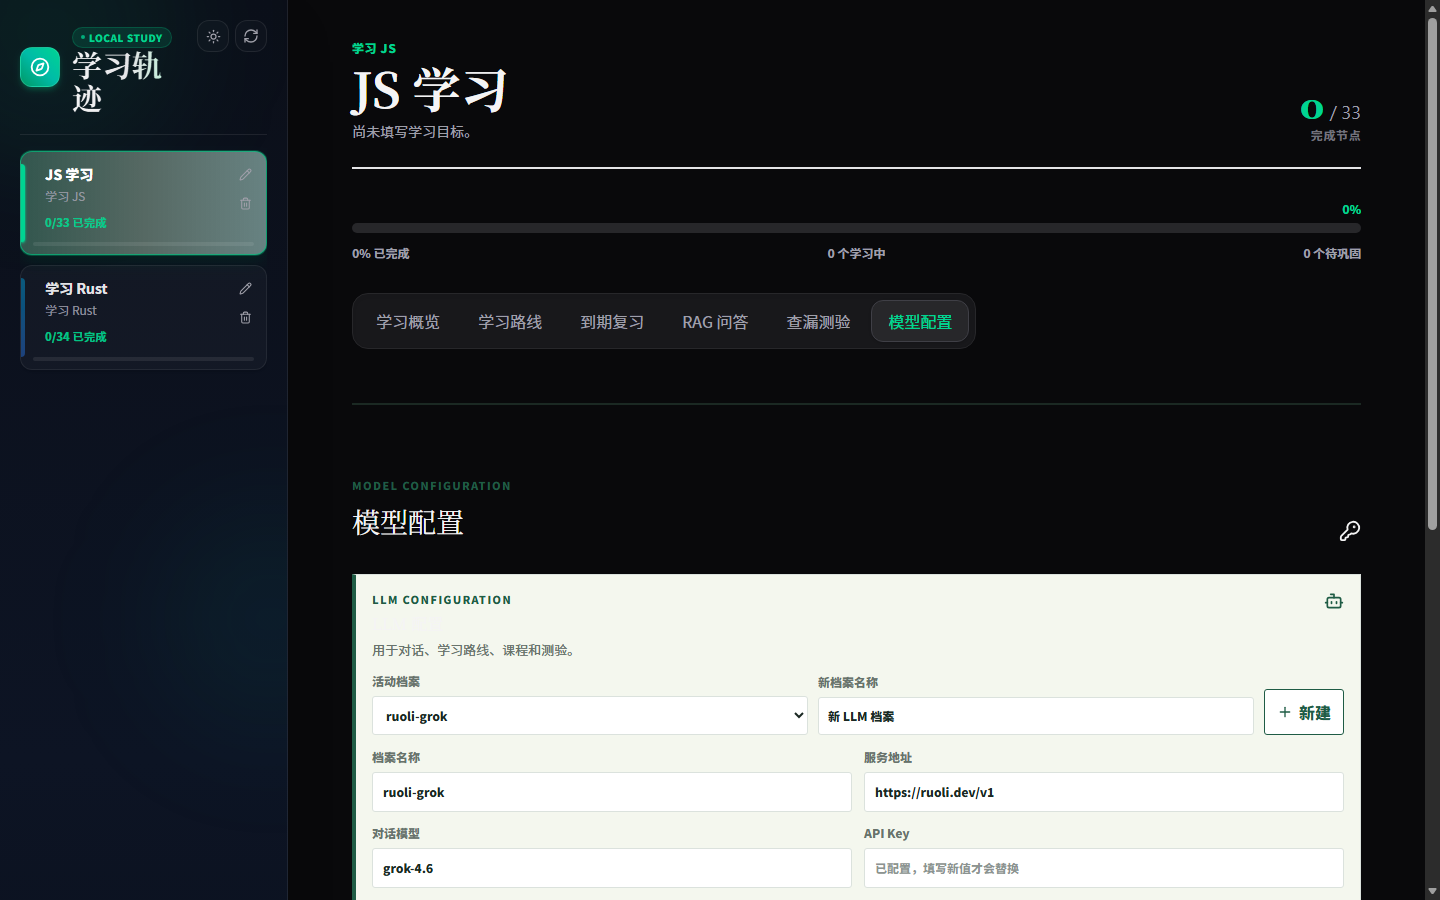
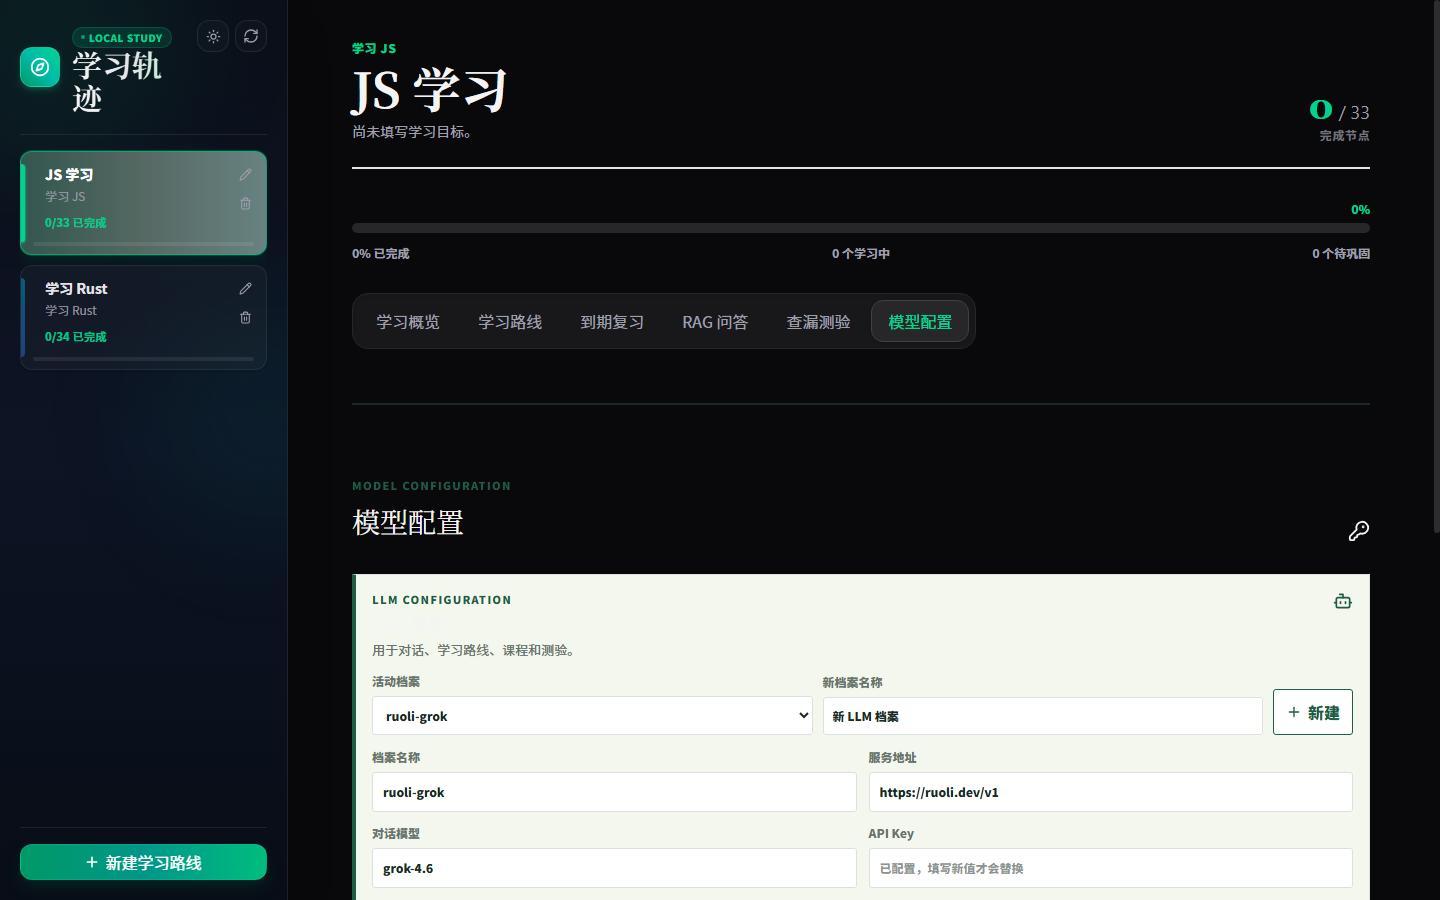
test(frontend): 增加端到端左右双栏独立滚动与防拉伸断言及截图

diff --git a/scripts/verify_ui.py b/scripts/verify_ui.py
@@ -24,13 +24,17 @@ EDGE_PATHS = [
     Path(r"C:\Program Files (x86)\Microsoft\Edge\Application\msedge.exe"),
     Path(r"C:\Program Files\Microsoft\Edge\Application\msedge.exe"),
 ]
-API_PORT = 8000
+API_PORT = 8088
 CDP_PORT = 9222
 
 
 def _is_port_free(port: int) -> bool:
     with socket.socket(socket.AF_INET, socket.SOCK_STREAM) as sock:
-        return sock.connect_ex(("127.0.0.1", port)) != 0
+        try:
+            sock.bind(("127.0.0.1", port))
+            return True
+        except OSError:
+            return False
 
 
 def _find_edge() -> Path | None:
@@ -79,13 +83,17 @@ async def run_cdp_test():
                 pass
         threading.Thread(target=_drain_stdout, daemon=True).start()
 
-        # 等待服务就绪
+        # 等待服务真实响应 HTTP 200
         deadline = time.time() + 60
         ready = False
         while time.time() < deadline:
-            if not _is_port_free(API_PORT):
-                ready = True
-                break
+            try:
+                with urlopen(f"http://127.0.0.1:{API_PORT}/", timeout=1) as r:
+                    if r.status in (200, 304):
+                        ready = True
+                        break
+            except Exception:
+                pass
             time.sleep(0.5)
         if not ready:
             print("[错误] FastAPI 启动超时")
@@ -310,11 +318,83 @@ async def run_cdp_test():
             await eval_js("document.querySelector('button[aria-label*=\"主题\"]')?.click()")
             await asyncio.sleep(0.3)
 
-            if all_passed and toggle_res and toggle_res.get("isDark"):
-                print("\n=== 全部标签页与浅色/深色主题切换在真实浏览器中 100% 验证通过！ ===")
+            print("[7/7] 核心验证：左右两栏独立滚动条与防拉伸隔离...")
+            scroll_test_res = await eval_js("""
+                (async () => {
+                    const aside = document.querySelector('aside');
+                    const workspaceScroll = document.getElementById('workspace-scroll-container');
+                    const initialWindowHeight = window.innerHeight;
+                    const initialAsideHeight = aside ? aside.getBoundingClientRect().height : 0;
+                    
+                    // 1. 验证左侧栏高度等于视口高度
+                    const heightMatchesViewport = Math.abs(initialAsideHeight - initialWindowHeight) <= 1.0;
+                    
+                    // 2. 模拟右侧工作台内容非常多（增加 2500px 高度的测试块）
+                    const dummyContent = document.createElement('div');
+                    dummyContent.id = '__scroll_test_dummy__';
+                    dummyContent.style.height = '2500px';
+                    dummyContent.style.background = 'linear-gradient(to bottom, rgba(16, 185, 129, 0.05), rgba(16, 185, 129, 0.2))';
+                    dummyContent.style.borderRadius = '16px';
+                    dummyContent.style.margin = '20px';
+                    dummyContent.innerHTML = '<div style="padding:24px;color:#047857;font-weight:bold;font-size:18px;">[端到端测试] 超长工作台内容注水块：测试右侧独立滚动与左侧侧边栏防拉伸</div>';
+                    workspaceScroll.appendChild(dummyContent);
+                    
+                    // 3. 检查注水后，左侧栏是否依然固定为视口高度，绝无被拉伸
+                    const asideHeightAfterContent = aside.getBoundingClientRect().height;
+                    const asideNotStretched = Math.abs(asideHeightAfterContent - initialWindowHeight) <= 1.0;
+                    
+                    // 4. 滚动右侧工作台容器
+                    workspaceScroll.scrollTop = 450;
+                    await new Promise(r => setTimeout(r, 200));
+                    const workspaceScrolled = workspaceScroll.scrollTop > 350;
+                    const windowScrollY = window.scrollY;
+                    
+                    return {
+                        initialWindowHeight,
+                        initialAsideHeight,
+                        heightMatchesViewport,
+                        asideHeightAfterContent,
+                        asideNotStretched,
+                        windowScrollY,
+                        workspaceScrolled,
+                        bodyOverflow: window.getComputedStyle(document.body).overflow
+                    };
+                })()
+            """)
+            print(f"  滚动隔离测试结果: {json.dumps(scroll_test_res, ensure_ascii=False, indent=2)}")
+
+            # 截取滚动状态下的截图
+            screenshot_scroll = await send_cmd("Page.captureScreenshot", {"format": "png"})
+            if screenshot_scroll and screenshot_scroll.get("data"):
+                img_bytes = base64.b64decode(screenshot_scroll["data"])
+                out_img_scroll = ROOT / "docs" / "scroll_isolation_verified.png"
+                out_img_scroll.parent.mkdir(exist_ok=True)
+                out_img_scroll.write_bytes(img_bytes)
+                print(f"  [OK] 滚动隔离验证截图已保存: {out_img_scroll}")
+
+            # 清理注水块
+            await eval_js("""
+                (() => {
+                    const dummy = document.getElementById('__scroll_test_dummy__');
+                    if (dummy) dummy.remove();
+                    const ws = document.getElementById('workspace-scroll-container');
+                    if (ws) ws.scrollTop = 0;
+                })()
+            """)
+
+            scroll_passed = (
+                scroll_test_res
+                and scroll_test_res.get("heightMatchesViewport")
+                and scroll_test_res.get("asideNotStretched")
+                and scroll_test_res.get("workspaceScrolled")
+                and scroll_test_res.get("windowScrollY") == 0
+            )
+
+            if all_passed and toggle_res and toggle_res.get("isDark") and scroll_passed:
+                print("\n=== 全部测试项（标签页切换、主题切换、双栏独立滚动与防拉伸）在真实浏览器中 100% 验证通过！ ===")
                 return 0
             else:
-                print("\n=== 部分验证未通过，请检查！ ===")
+                print(f"\n=== 验证未完全通过: all_passed={all_passed}, isDark={bool(toggle_res and toggle_res.get('isDark'))}, scroll_passed={scroll_passed} ===")
                 return 1
 
     finally:
@@ -330,10 +410,10 @@ async def run_cdp_test():
                 api_process.wait(timeout=5)
             except Exception:
                 api_process.kill()
-        # 兜底清理可能残留在 8000 的子进程
+        # 兜底清理可能残留在 API_PORT 的子进程
         try:
             subprocess.run(
-                ["powershell", "-Command", "$c = Get-NetTCPConnection -LocalPort 8000 -ErrorAction SilentlyContinue; if ($c) { Stop-Process -Id ($c.OwningProcess | Select -Unique) -Force -ErrorAction SilentlyContinue }"],
+                ["powershell", "-Command", f"$c = Get-NetTCPConnection -LocalPort {API_PORT} -ErrorAction SilentlyContinue; if ($c) {{ Stop-Process -Id ($c.OwningProcess | Select -Unique) -Force -ErrorAction SilentlyContinue }}"],
                 stdout=subprocess.DEVNULL,
                 stderr=subprocess.DEVNULL,
                 timeout=5,
